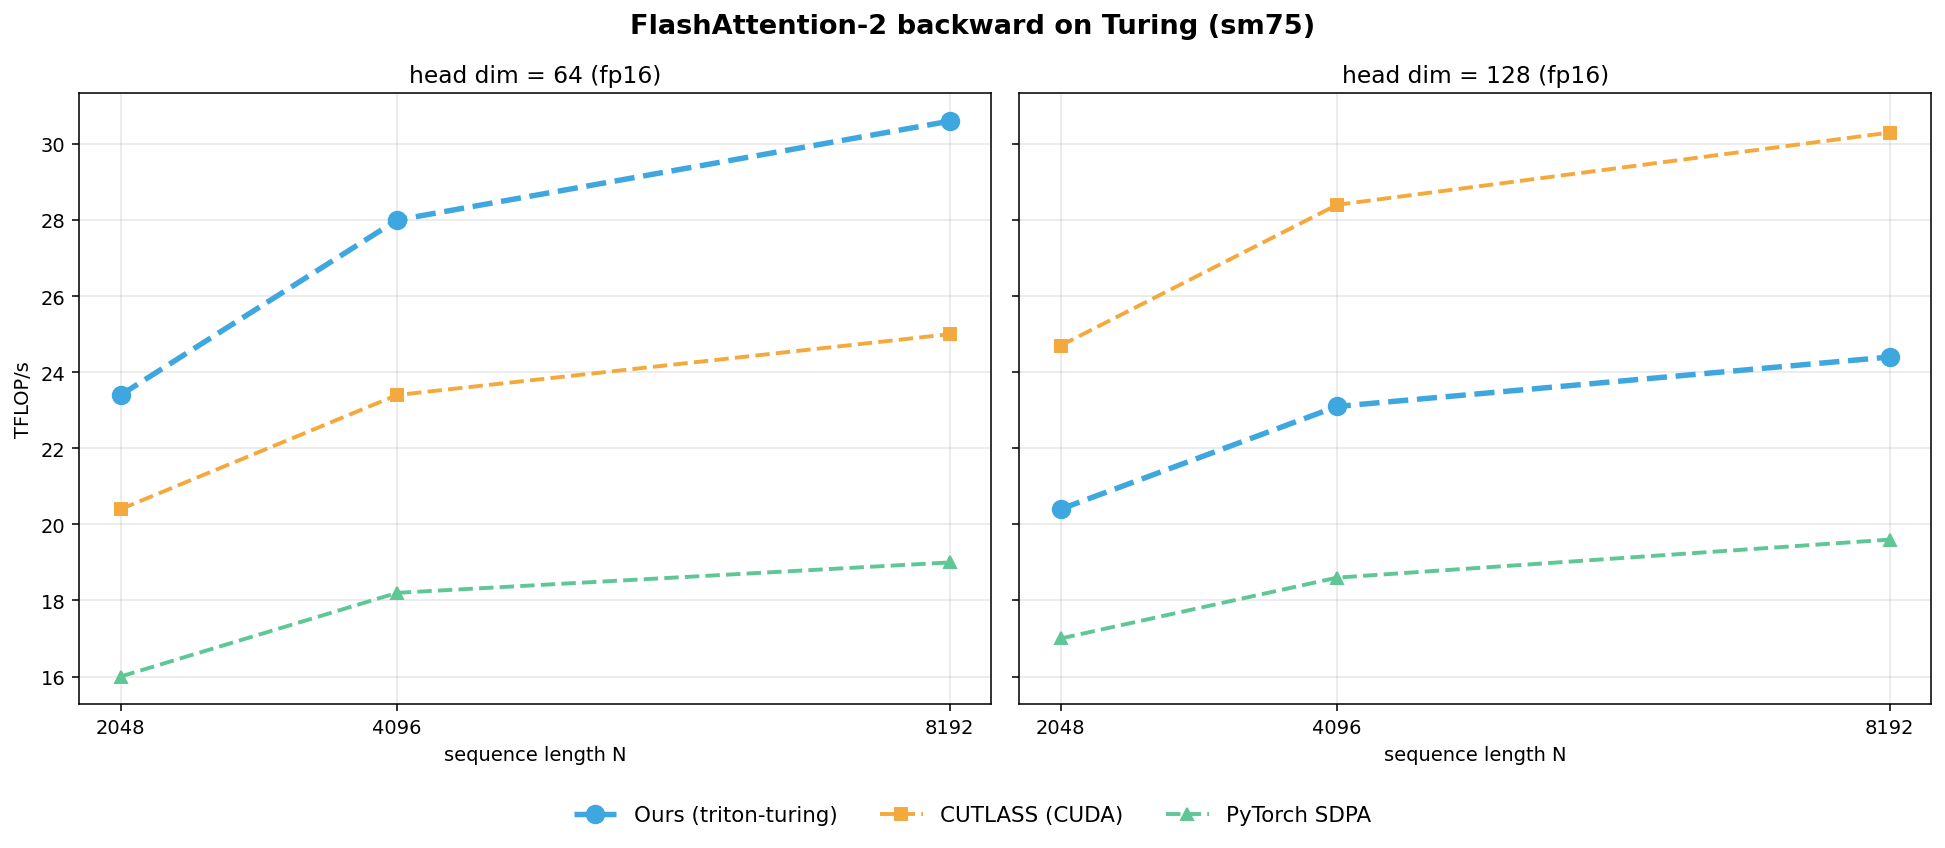
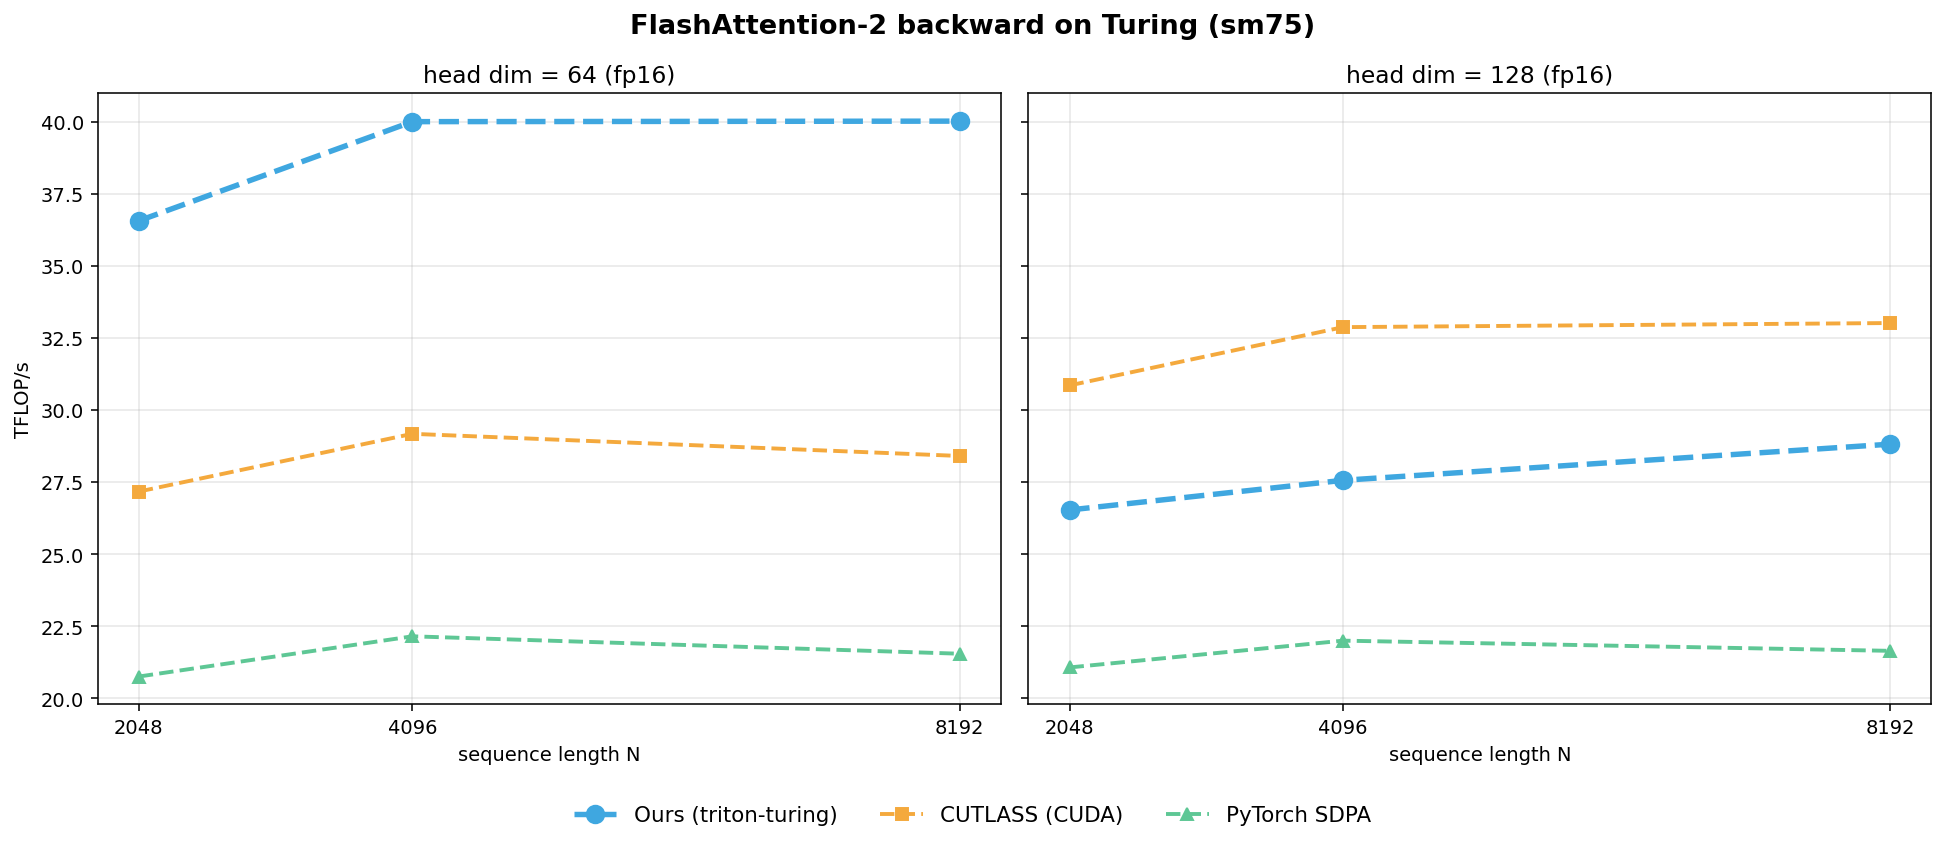
docs: refresh the FlashAttention and FP16 GEMM numbers
The two FlashAttention figures were arrays transcribed by hand into
plot_showcase.py from the June run. The backward d64 curve has moved
twice since — block retuning, then the transposed-operand shared-buffer
change — with nothing to signal the figure no longer matched the code.
The plotting script now reads a JSON file instead, so a re-run redraws.

Forward is re-measured too, even though it did not change. Absolute
throughput on this machine drifted ~40% upward between June and August
(ours and the CUTLASS reference moved together, so the ratios held).
Refreshing only backward would have put two adjacent figures on
incomparable y-axes. Both directions and all four implementations now
come from one process.

  forward  vs CUTLASS   +7-26%      -> +21-26% (d64), +4-8% (d128)
  backward vs CUTLASS   +15-22%     -> +35-41% (d64)
                        -17-19%     -> -13-16% (d128)

The d128 backward figure is the same code as before -- the codegen
change is gated off at that head dim -- so its shift is run-to-run
variation, not an improvement, and the text does not claim otherwise.

FP16 GEMM is redrawn from a fresh cooled run. Reproducibility is good:
29 of 31 sizes land within 0.5% of the previous curve, and the two that
move are M=896 (+2.6%) and M=1024 (+3.2%), exactly where the two
single-stage configs were added. Grouped GEMM has no figure, so its
+5-10% goes in the text.

The integer figure is unchanged and was not re-measured: int8 and int4
[…]

diff --git a/README.md b/README.md
@@ -24,8 +24,11 @@ Upstream Triton supports Turing's MMA instructions, but critical optimizations w
 
 All numbers below are from a Titan RTX (sm75). GEMM curves use a
 throttle-corrected measurement (large sizes measured cold, best of 3 runs);
-without a locked clock the very largest sizes are still throttle-prone. Each
-operator is compared against the strongest existing implementation in its domain.
+without a locked clock the very largest sizes are still throttle-prone. The two
+FlashAttention figures come from a single process that measures forward,
+backward and all four implementations back to back, so every comparison within
+them shares one thermal state. Each operator is compared against the strongest
+existing implementation in its domain.
 
 ### FlashAttention-2 forward — faster than a hand-written CUDA kernel
 
@@ -33,20 +36,35 @@ operator is compared against the strongest existing implementation in its domain
 
 The Triton FA2 forward kernel (tutorial `06-fused-attention.py` plus our sm75
 pipeline) is the fastest at every size measured — ahead of a from-scratch
-CUDA/CUTLASS FlashAttention for Turing by **+7–26%**, and ahead of PyTorch SDPA
-(xformers backend) by **1.7–2.2×**. Attention benefits from the pipeline because
-the softmax dependency chain leaves the Tensor Cores idle, and the pipeline uses
-that window to prefetch K/V.
+CUDA/CUTLASS FlashAttention for Turing by **+21–26%** at head dim 64 and
+**+4–8%** at head dim 128, and ahead of PyTorch SDPA (xformers backend) by
+**1.7–2.2×**. Attention benefits from the pipeline because the softmax
+dependency chain leaves the Tensor Cores idle, and the pipeline uses that window
+to prefetch K/V.
+
+An exhaustive sweep of the forward block/stage/warp space found no headroom
+left: the autotune list already contains the winner at every size, 256-row
+blocks at best tie, and `num_stages=1` is 9–20% slower because the forward is
+latency-exposed and genuinely wants the pipeline.
 
 ### FlashAttention-2 backward — a mixed result, and our one weakness
 
 ![FlashAttention-2 backward](.github/assets/benchmarks/fa2-backward.png)
 
-Backward is honest about a limitation. At head dim 64 our kernel still beats the
-CUDA/CUTLASS implementation by **+15–22%**. At head dim 128 it **trails by
-17–19%** — the only place we lose. Upstream's d=128 backward blocks need ~82 KB
-of shared memory, well past Turing's hard **64 KB/CTA** limit, so `BLOCK_N1` and
-`BLOCK_M2` are halved to 64 to fit.
+Backward is honest about a limitation. At head dim 64 our kernel beats the
+CUDA/CUTLASS implementation by **+35–41%** — that margin comes from two
+compounding changes: retuning the block sizes for Turing (+6%), and a codegen
+change that lets a transposed dot operand read the shared buffer its
+untransposed sibling already filled, instead of paying a scratch round trip per
+loop iteration (−8–14% kernel time under a locked clock).
+
+At head dim 128 it **trails by 13–16%** — the only place we lose. That
+configuration is unchanged: the codegen change above is gated off there, because
+the backward kernel compiles at the 255-register ceiling and holding the buffer
+live longer tips it into spilling (local memory traffic goes from 15 MB to 688
+MB). Upstream's d=128 backward blocks need ~82 KB of shared memory, well past
+Turing's hard **64 KB/CTA** limit, so `BLOCK_N1` and `BLOCK_M2` are halved to 64
+to fit.
 
 That fallback is not a missed tuning opportunity. An exhaustive sweep of the
 block/stage/warp space — 216 configurations, of which 34 fit in 64 KB and only 18
@@ -72,7 +90,14 @@ the path "Not implemented"). Triton INT8 also clears cuBLAS INT8 by ~1.8×.
 ![FP16 GEMM](.github/assets/benchmarks/fp16-gemm.png)
 
 For plain FP16 GEMM the Triton kernel reaches **≈ 84–86 % of cuBLAS** — NVIDIA's
-hand-tuned vendor library — across the mid-to-large size range.
+hand-tuned vendor library — across the mid-to-large size range. A 108-config
+sweep confirms the autotune list is already at that ceiling above 2048; the only
+gap it found was near 1 K, where two single-stage configs are worth **+3–4 %**.
+
+Grouped (MoE) GEMM gained **+5–10 %** from the same exercise, almost all of it
+from dropping `num_stages` from 3 to 2: at 3 stages a 128×128×32 tile needs
+49152 B of shared memory, over the 32 KB that lets two CTAs share a Turing SM,
+and the pipeline buys back less than the occupancy it costs.
 
 ### When the software pipeline helps
 
